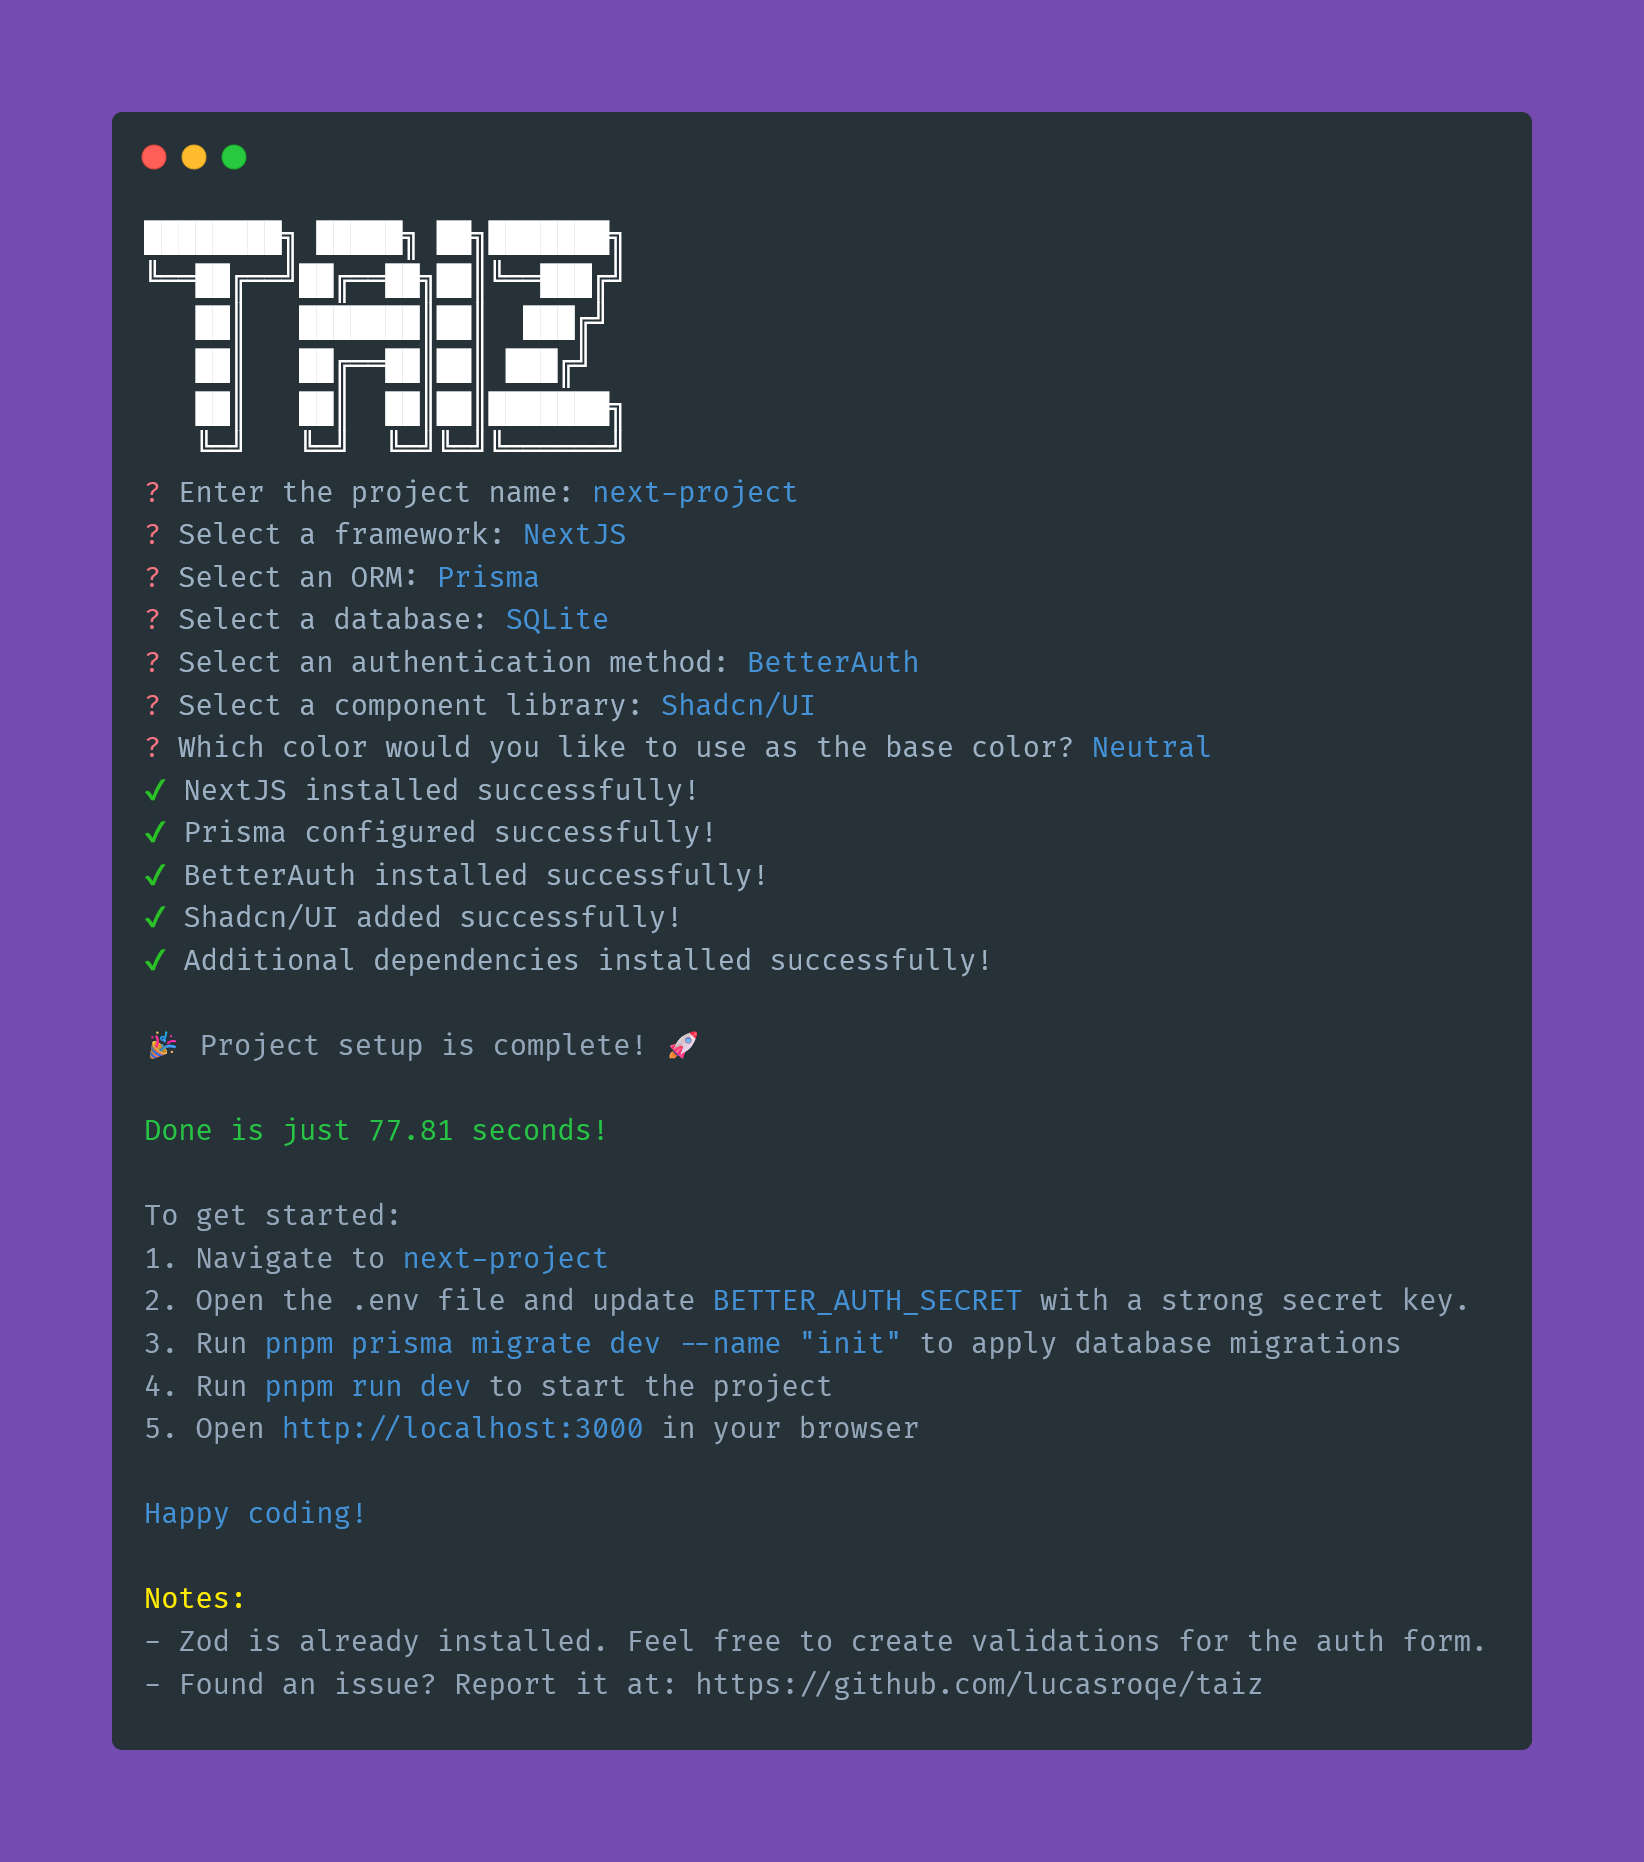
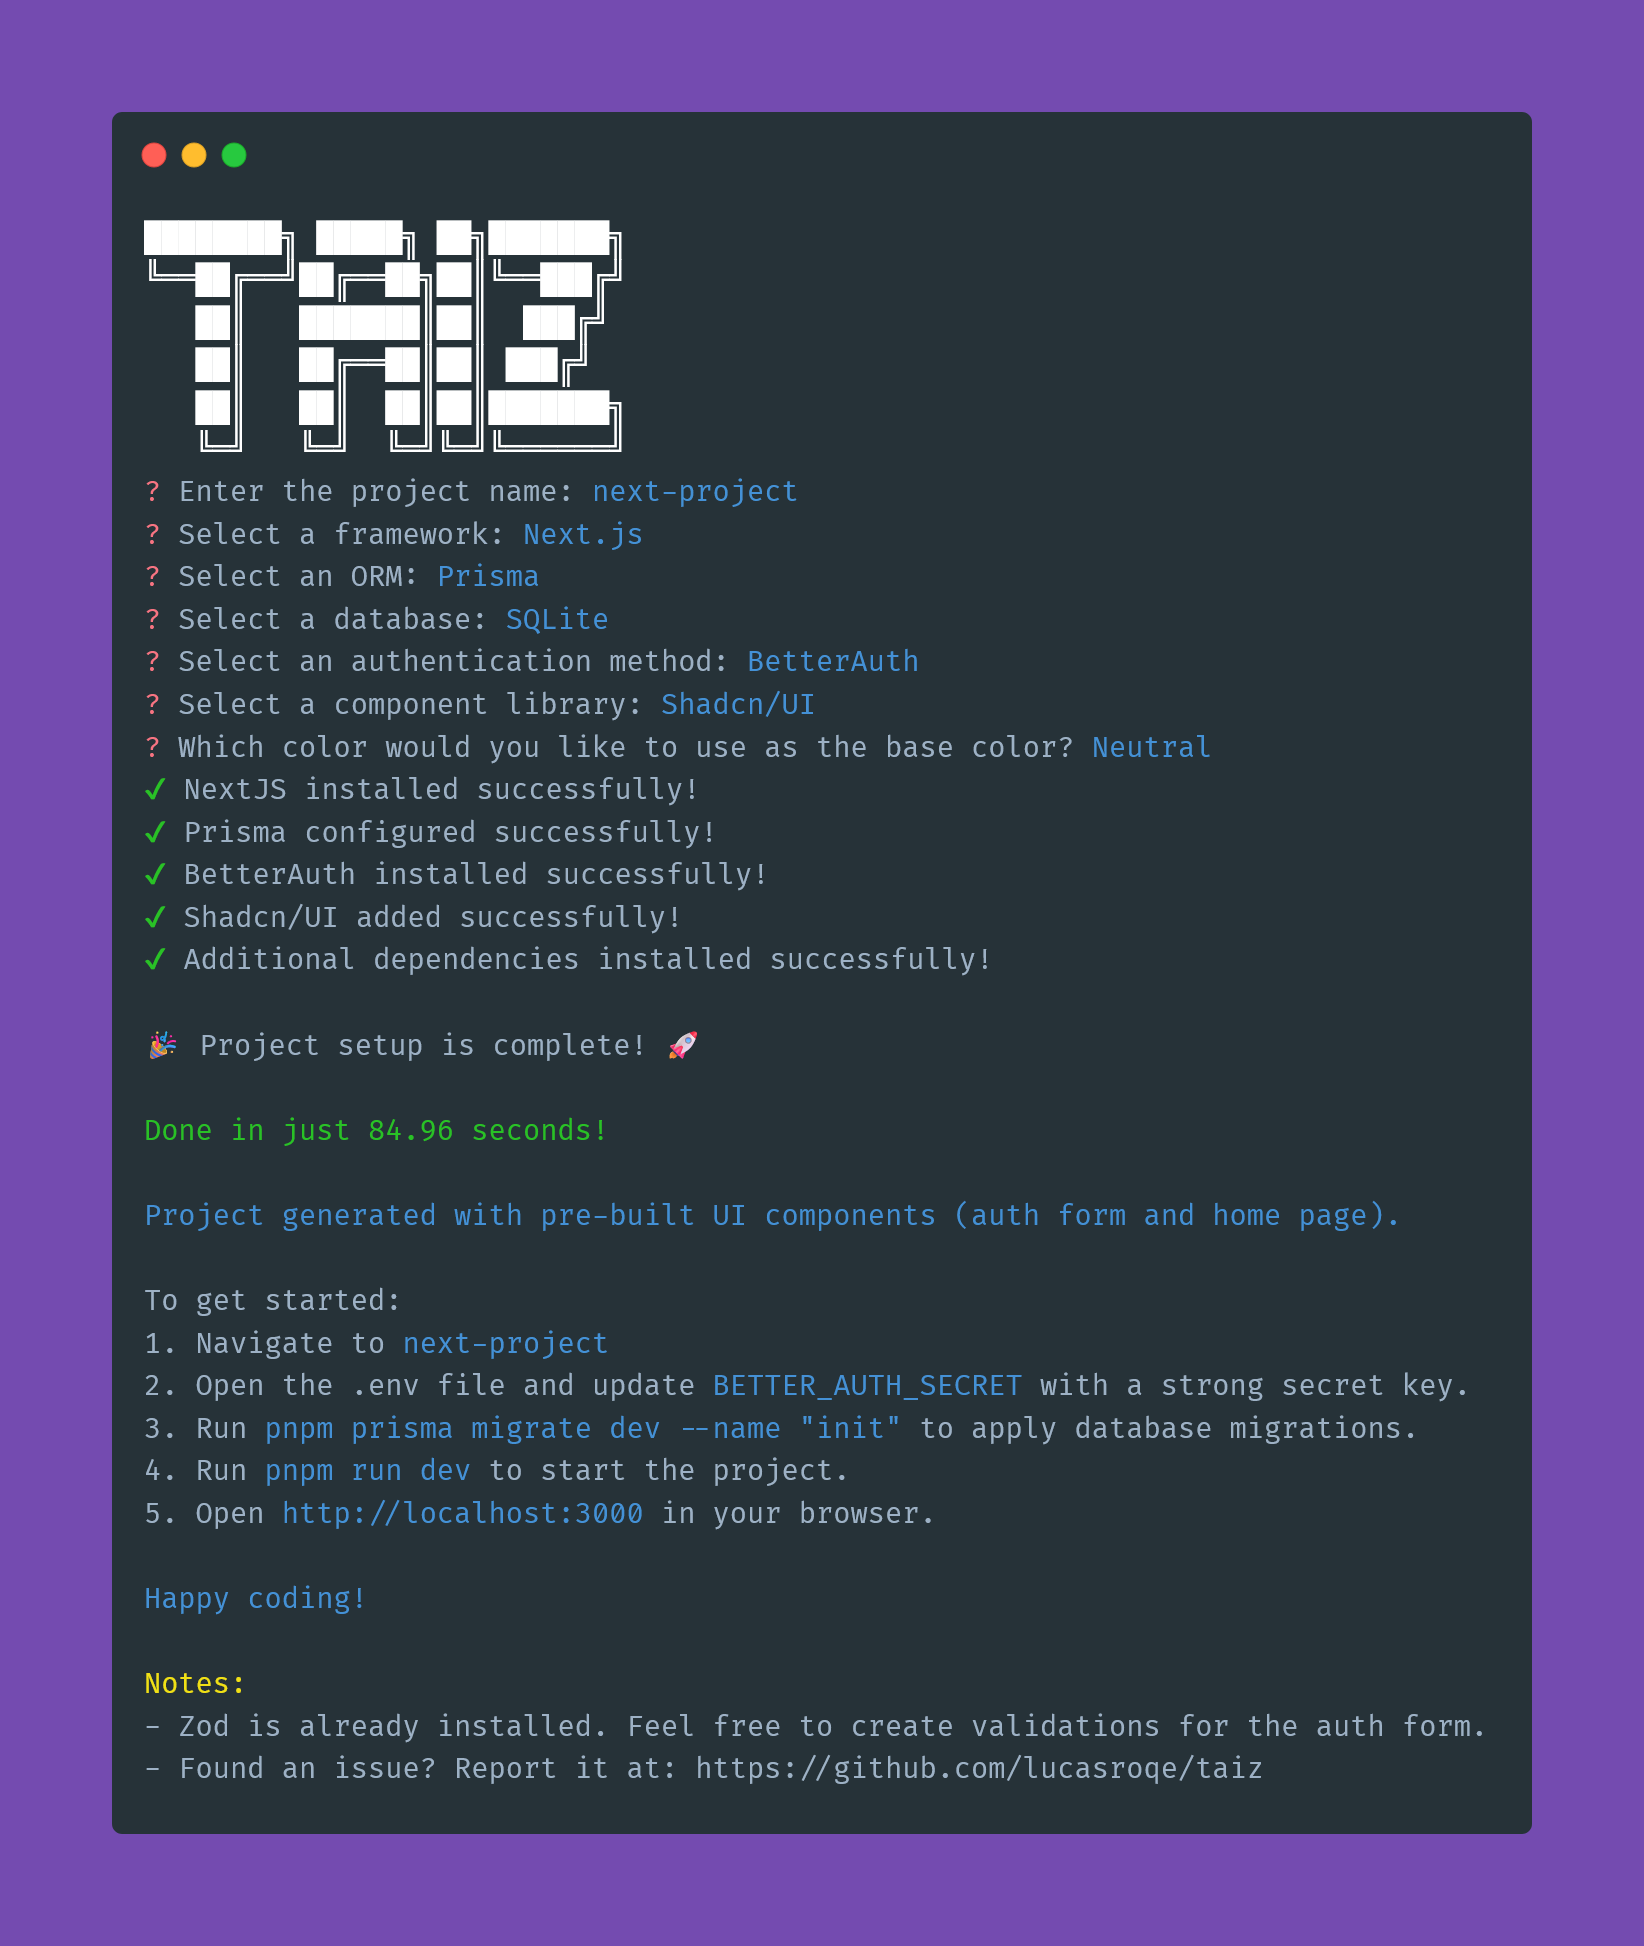
feat: implement --empty ui option

diff --git a/src/commands/index.ts b/src/commands/index.ts
@@ -32,9 +32,10 @@ const promptUser = async () => {
   return { projectName, framework, orm, db, auth, ui, color }
 }
 
-const spinner = ora()
+export const addPackage = async (options: any) => {
 
-export const addPackage = async () => {
+  const spinner = ora()
+
   const lilacGradient = gradient([
     { color: '#D8BFD8', pos: 0 },
     { color: '#E6E6FA', pos: 0.5 },
@@ -61,7 +62,7 @@ export const addPackage = async () => {
           },
         )
       })
-      spinner.succeed('NextJS installed successfully!')
+      spinner.succeed('Next.js installed successfully!')
     }
 
     if (answer.orm === 'prisma') {
@@ -99,14 +100,30 @@ export const addPackage = async () => {
         },
       )
     })
-    addAuthFormComponent(answer.projectName)
-    addHomePageComponent(answer.projectName)
+
+    if (!options.empty) {
+      addAuthFormComponent(answer.projectName)
+      addHomePageComponent(answer.projectName)
+    }
+
     spinner.succeed('Additional dependencies installed successfully!')
     const end = Date.now()
     const duration = ((end - start) / 1000).toFixed(2)
 
     console.log('\n🎉 Project setup is complete! 🚀')
     console.log(chalk.bgGreen(`\nDone in just ${duration} seconds!`))
+
+    if (options.empty) {
+      console.log(
+        chalk.cyan('\nProject generated without additional UI components.'),
+      )
+    } else {
+      console.log(
+        chalk.cyan(
+          '\nProject generated with pre-built UI components (auth form and home page).',
+        ),
+      )
+    }
 
     console.log('\nTo get started:')
     console.log(`1. Navigate to ` + chalk.blue.bold(`${answer.projectName}`))
@@ -118,15 +135,15 @@ export const addPackage = async () => {
     console.log(
       '3. Run ' +
         chalk.blue.bold('pnpm prisma migrate dev --name "init"') +
-        ' to apply database migrations',
+        ' to apply database migrations.',
     )
     console.log(
-      '4. Run ' + chalk.blue.bold('pnpm run dev') + ' to start the project',
+      '4. Run ' + chalk.blue.bold('pnpm run dev') + ' to start the project.',
     )
     console.log(
       '5. Open ' +
         chalk.blue.bold('http://localhost:3000') +
-        ` in your browser`,
+        ` in your browser.`,
     )
 
     console.log('\nHappy coding!\n')

diff --git a/src/index.ts b/src/index.ts
@@ -1,10 +1,14 @@
+// No seu arquivo de CLI
 import { Command } from 'commander'
 import { addPackage } from './commands'
 
 const program = new Command()
 
 program.name('cli nextjs').description('Test CLI').version('0.1.0')
-
-program.command('init').description('Create project').action(addPackage)
+program
+  .command('init')
+  .description('Create project')
+  .option('-e, --empty', 'generate without any ui')
+  .action((options) => addPackage(options))
 
 program.parse(process.argv)

diff --git a/src/commands/prompts.ts b/src/commands/prompts.ts
@@ -20,7 +20,7 @@ export const askFramework = async () => {
     message: 'Select a framework:',
     choices: [
       {
-        name: 'NextJS',
+        name: 'Next.js',
         value: 'nextjs',
       },
     ],

diff --git a/README.md b/README.md
@@ -59,4 +59,13 @@ taiz init
 
 ---
 
+### Commands
+| Command | Short Flag | Long Option       | Description                                    | Argument          |
+| ------- | ---------- | ----------------- | ---------------------------------------------- | ----------------- |
+| init    | -          | -                 | initialise and configure Taiz                  |                   |
+| -       | -e         | --empty       | initialise without any ui                      |                   |
+
+
+---
+
 Taiz is packed with tools to help you build faster and smarter. Stay tuned for more features coming soon!
